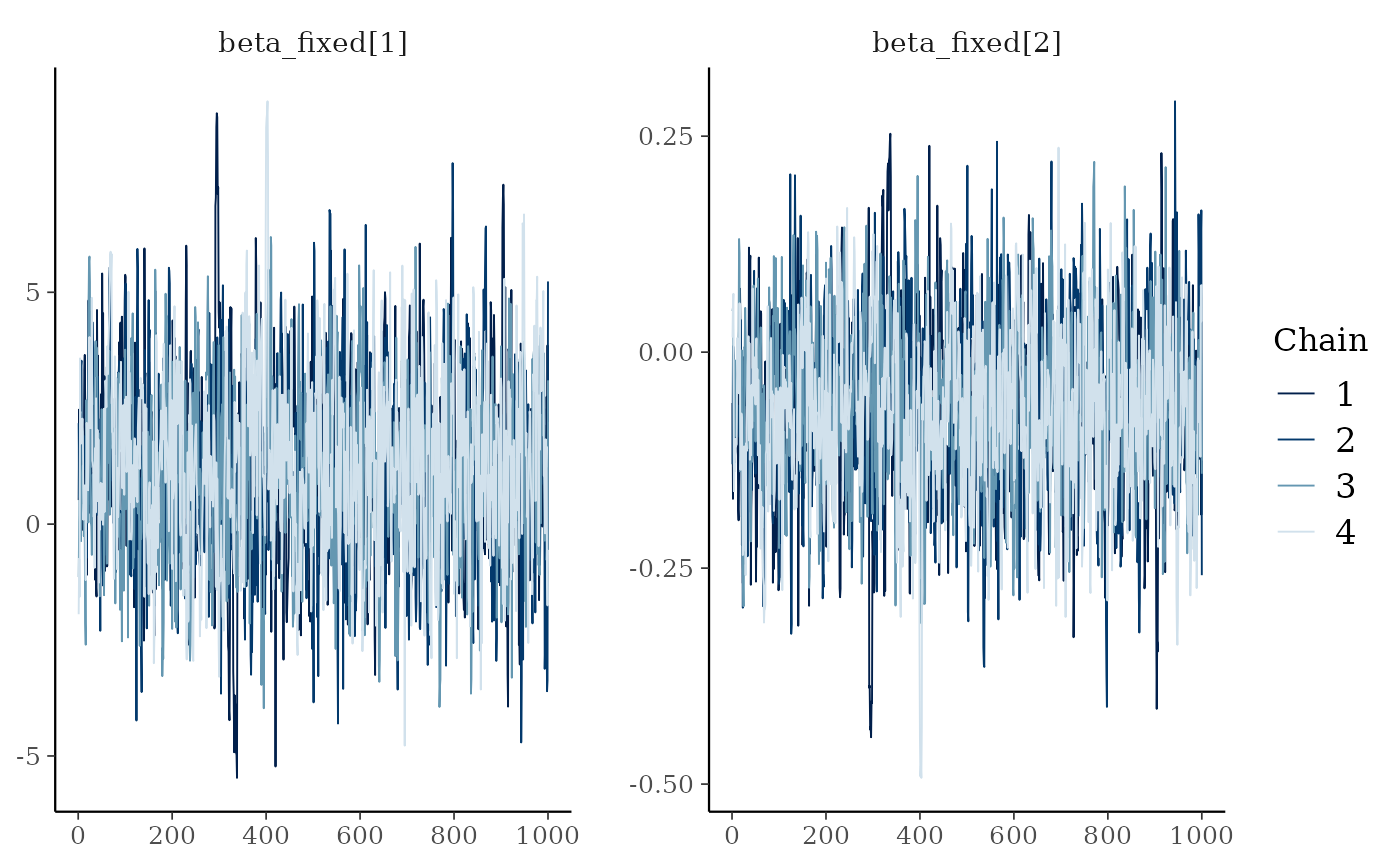
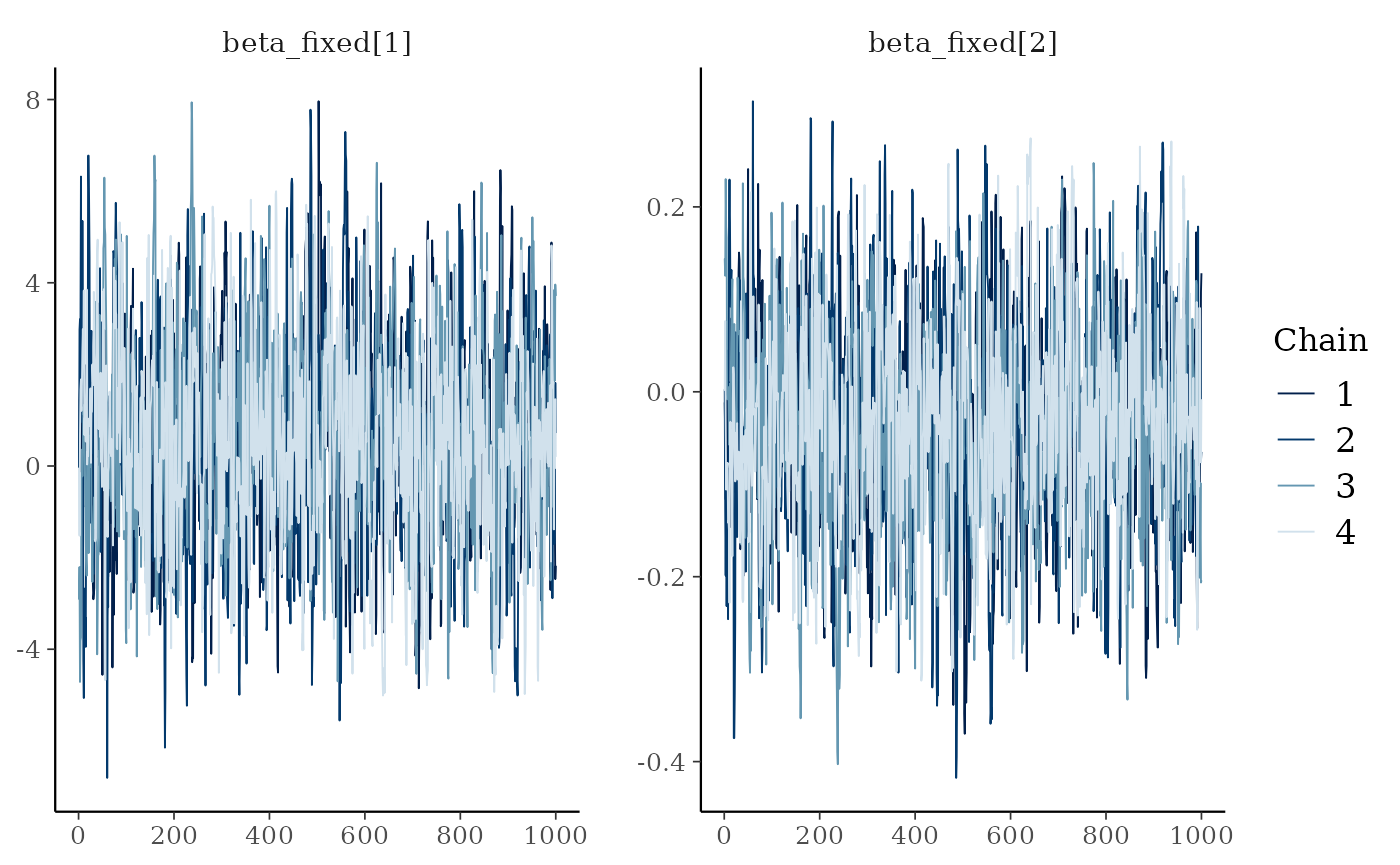
Built site for bisonR: 0.1.0@a3fa90d

diff --git a/articles/getting_started.html b/articles/getting_started.html
@@ -114,12 +114,12 @@
 <span class="va">df</span> <span class="op">&lt;-</span> <span class="va">sim_data</span><span class="op">$</span><span class="va">df_sim</span>
 <span class="fu"><a href="https://rdrr.io/r/utils/head.html" class="external-link">head</a></span><span class="op">(</span><span class="va">df</span><span class="op">)</span>
 <span class="co">#&gt;   event node_1_id node_2_id age_diff    age_1    age_2 location duration</span>
-<span class="co">#&gt; 1     1         1         2 6.293831 22.79589 16.50206        5        1</span>
-<span class="co">#&gt; 2     1         1         2 6.293831 22.79589 16.50206        2        1</span>
-<span class="co">#&gt; 3     1         1         2 6.293831 22.79589 16.50206        3        1</span>
-<span class="co">#&gt; 4     1         1         2 6.293831 22.79589 16.50206        1        1</span>
-<span class="co">#&gt; 5     1         1         2 6.293831 22.79589 16.50206        3        1</span>
-<span class="co">#&gt; 6     1         1         2 6.293831 22.79589 16.50206        2        1</span></code></pre></div>
+<span class="co">#&gt; 1     1         1         2  4.49879 19.47078 14.97199        5        1</span>
+<span class="co">#&gt; 2     0         1         2  4.49879 19.47078 14.97199        1        1</span>
+<span class="co">#&gt; 3     1         1         2  4.49879 19.47078 14.97199        5        1</span>
+<span class="co">#&gt; 4     1         1         2  4.49879 19.47078 14.97199        3        1</span>
+<span class="co">#&gt; 5     1         1         2  4.49879 19.47078 14.97199        3        1</span>
+<span class="co">#&gt; 6     1         1         2  4.49879 19.47078 14.97199        1        1</span></code></pre></div>
 </div>
 <div class="section level2">
 <h2 id="edge-models">Edge Models<a class="anchor" aria-label="anchor" href="#edge-models"></a>
@@ -188,14 +188,14 @@
 <span class="co">#&gt; </span>
 <span class="co">#&gt; Running MCMC with 4 parallel chains...</span>
 <span class="co">#&gt; </span>
-<span class="co">#&gt; Chain 3 finished in 2.1 seconds.</span>
-<span class="co">#&gt; Chain 1 finished in 2.2 seconds.</span>
-<span class="co">#&gt; Chain 2 finished in 2.3 seconds.</span>
-<span class="co">#&gt; Chain 4 finished in 2.2 seconds.</span>
+<span class="co">#&gt; Chain 2 finished in 2.2 seconds.</span>
+<span class="co">#&gt; Chain 3 finished in 2.2 seconds.</span>
+<span class="co">#&gt; Chain 1 finished in 2.4 seconds.</span>
+<span class="co">#&gt; Chain 4 finished in 2.4 seconds.</span>
 <span class="co">#&gt; </span>
 <span class="co">#&gt; All 4 chains finished successfully.</span>
-<span class="co">#&gt; Mean chain execution time: 2.2 seconds.</span>
-<span class="co">#&gt; Total execution time: 2.4 seconds.</span></code></pre></div>
+<span class="co">#&gt; Mean chain execution time: 2.3 seconds.</span>
+<span class="co">#&gt; Total execution time: 2.6 seconds.</span></code></pre></div>
 <p>Depending on your dataset this can take anywhere between a few tenths of a second and several hours. In particular if you have a large dataset and no observation-level predictors, it’s probably a good idea to use the aggregated version of the model where all observations per dyad are collapsed to a single row. This will speed up model fitting considerably.</p>
 <p>Once the model has fitted, we need to check that the MCMC algorithm has behaved correctly. Usually if there’s a major problem, the <code><a href="../reference/edge_model.html">edge_model()</a></code> function itself will have triggered warning messages above. But even if everything is silent, it’s still worth checking the traceplots to check the MCMC chains have converged. The chains should be well-mixed and look something like a fuzzy caterpillar. We can check for this using the <code><a href="../reference/plot_trace.html">plot_trace()</a></code> function:</p>
 <div class="sourceCode" id="cb7"><pre class="downlit sourceCode r">
@@ -216,51 +216,51 @@
 <span class="co">#&gt; Directed: FALSE</span>
 <span class="co">#&gt; === Edge list summary ===</span>
 <span class="co">#&gt;          median    5%   95%</span>
-<span class="co">#&gt; 1 &lt;-&gt; 2   0.916 0.751 0.986</span>
-<span class="co">#&gt; 1 &lt;-&gt; 3   0.742 0.355 0.956</span>
-<span class="co">#&gt; 2 &lt;-&gt; 3   0.114 0.005 0.576</span>
-<span class="co">#&gt; 1 &lt;-&gt; 4   0.971 0.847 0.998</span>
-<span class="co">#&gt; 2 &lt;-&gt; 4   0.907 0.716 0.983</span>
-<span class="co">#&gt; 3 &lt;-&gt; 4   0.977 0.880 0.998</span>
-<span class="co">#&gt; 1 &lt;-&gt; 5   0.942 0.683 0.996</span>
-<span class="co">#&gt; 2 &lt;-&gt; 5   0.029 0.002 0.148</span>
-<span class="co">#&gt; 3 &lt;-&gt; 5   0.818 0.208 0.992</span>
-<span class="co">#&gt; 4 &lt;-&gt; 5   0.107 0.005 0.582</span>
-<span class="co">#&gt; 1 &lt;-&gt; 6   0.961 0.798 0.997</span>
-<span class="co">#&gt; 2 &lt;-&gt; 6   0.037 0.002 0.204</span>
-<span class="co">#&gt; 3 &lt;-&gt; 6   0.457 0.227 0.695</span>
-<span class="co">#&gt; 4 &lt;-&gt; 6   0.168 0.007 0.780</span>
-<span class="co">#&gt; 5 &lt;-&gt; 6   0.809 0.624 0.929</span>
-<span class="co">#&gt; 1 &lt;-&gt; 7   0.843 0.560 0.974</span>
-<span class="co">#&gt; 2 &lt;-&gt; 7   0.027 0.002 0.141</span>
-<span class="co">#&gt; 3 &lt;-&gt; 7   0.259 0.044 0.649</span>
-<span class="co">#&gt; 4 &lt;-&gt; 7   0.028 0.003 0.137</span>
-<span class="co">#&gt; 5 &lt;-&gt; 7   0.791 0.444 0.966</span>
-<span class="co">#&gt; 6 &lt;-&gt; 7   0.785 0.441 0.966</span>
-<span class="co">#&gt; 1 &lt;-&gt; 8   0.973 0.856 0.998</span>
-<span class="co">#&gt; 2 &lt;-&gt; 8   0.368 0.207 0.558</span>
-<span class="co">#&gt; 3 &lt;-&gt; 8   0.975 0.872 0.998</span>
-<span class="co">#&gt; 4 &lt;-&gt; 8   0.067 0.013 0.193</span>
-<span class="co">#&gt; 5 &lt;-&gt; 8   0.887 0.410 0.994</span>
-<span class="co">#&gt; 6 &lt;-&gt; 8   0.893 0.430 0.994</span>
-<span class="co">#&gt; 7 &lt;-&gt; 8   0.948 0.725 0.997</span>
-<span class="co">#&gt; 1 &lt;-&gt; 9   0.955 0.765 0.997</span>
-<span class="co">#&gt; 2 &lt;-&gt; 9   0.923 0.768 0.986</span>
-<span class="co">#&gt; 3 &lt;-&gt; 9   0.847 0.563 0.973</span>
-<span class="co">#&gt; 4 &lt;-&gt; 9   0.844 0.573 0.972</span>
-<span class="co">#&gt; 5 &lt;-&gt; 9   0.974 0.868 0.998</span>
-<span class="co">#&gt; 6 &lt;-&gt; 9   0.892 0.413 0.994</span>
-<span class="co">#&gt; 7 &lt;-&gt; 9   0.916 0.548 0.995</span>
-<span class="co">#&gt; 8 &lt;-&gt; 9   0.842 0.642 0.955</span>
-<span class="co">#&gt; 1 &lt;-&gt; 10  0.402 0.115 0.740</span>
-<span class="co">#&gt; 2 &lt;-&gt; 10  0.030 0.002 0.145</span>
-<span class="co">#&gt; 3 &lt;-&gt; 10  0.033 0.002 0.191</span>
-<span class="co">#&gt; 4 &lt;-&gt; 10  0.032 0.002 0.164</span>
-<span class="co">#&gt; 5 &lt;-&gt; 10  0.238 0.103 0.427</span>
-<span class="co">#&gt; 6 &lt;-&gt; 10  0.036 0.002 0.202</span>
-<span class="co">#&gt; 7 &lt;-&gt; 10  0.021 0.002 0.109</span>
-<span class="co">#&gt; 8 &lt;-&gt; 10  0.025 0.002 0.133</span>
-<span class="co">#&gt; 9 &lt;-&gt; 10  0.029 0.002 0.137</span></code></pre></div>
+<span class="co">#&gt; 1 &lt;-&gt; 2   0.853 0.672 0.957</span>
+<span class="co">#&gt; 1 &lt;-&gt; 3   0.045 0.003 0.235</span>
+<span class="co">#&gt; 2 &lt;-&gt; 3   0.040 0.003 0.211</span>
+<span class="co">#&gt; 1 &lt;-&gt; 4   0.388 0.224 0.582</span>
+<span class="co">#&gt; 2 &lt;-&gt; 4   0.021 0.002 0.102</span>
+<span class="co">#&gt; 3 &lt;-&gt; 4   0.224 0.063 0.493</span>
+<span class="co">#&gt; 1 &lt;-&gt; 5   0.498 0.269 0.727</span>
+<span class="co">#&gt; 2 &lt;-&gt; 5   0.509 0.108 0.904</span>
+<span class="co">#&gt; 3 &lt;-&gt; 5   0.749 0.555 0.888</span>
+<span class="co">#&gt; 4 &lt;-&gt; 5   0.924 0.769 0.985</span>
+<span class="co">#&gt; 1 &lt;-&gt; 6   0.095 0.017 0.271</span>
+<span class="co">#&gt; 2 &lt;-&gt; 6   0.067 0.004 0.378</span>
+<span class="co">#&gt; 3 &lt;-&gt; 6   0.335 0.109 0.656</span>
+<span class="co">#&gt; 4 &lt;-&gt; 6   0.340 0.103 0.649</span>
+<span class="co">#&gt; 5 &lt;-&gt; 6   0.171 0.063 0.338</span>
+<span class="co">#&gt; 1 &lt;-&gt; 7   0.824 0.503 0.970</span>
+<span class="co">#&gt; 2 &lt;-&gt; 7   0.070 0.004 0.360</span>
+<span class="co">#&gt; 3 &lt;-&gt; 7   0.963 0.809 0.998</span>
+<span class="co">#&gt; 4 &lt;-&gt; 7   0.979 0.894 0.998</span>
+<span class="co">#&gt; 5 &lt;-&gt; 7   0.747 0.545 0.894</span>
+<span class="co">#&gt; 6 &lt;-&gt; 7   0.967 0.830 0.998</span>
+<span class="co">#&gt; 1 &lt;-&gt; 8   0.150 0.048 0.333</span>
+<span class="co">#&gt; 2 &lt;-&gt; 8   0.089 0.015 0.262</span>
+<span class="co">#&gt; 3 &lt;-&gt; 8   0.249 0.119 0.425</span>
+<span class="co">#&gt; 4 &lt;-&gt; 8   0.922 0.767 0.986</span>
+<span class="co">#&gt; 5 &lt;-&gt; 8   0.625 0.420 0.800</span>
+<span class="co">#&gt; 6 &lt;-&gt; 8   0.434 0.247 0.636</span>
+<span class="co">#&gt; 7 &lt;-&gt; 8   0.221 0.069 0.489</span>
+<span class="co">#&gt; 1 &lt;-&gt; 9   0.976 0.871 0.998</span>
+<span class="co">#&gt; 2 &lt;-&gt; 9   0.101 0.018 0.299</span>
+<span class="co">#&gt; 3 &lt;-&gt; 9   0.785 0.618 0.910</span>
+<span class="co">#&gt; 4 &lt;-&gt; 9   0.977 0.879 0.998</span>
+<span class="co">#&gt; 5 &lt;-&gt; 9   0.662 0.342 0.900</span>
+<span class="co">#&gt; 6 &lt;-&gt; 9   0.963 0.804 0.997</span>
+<span class="co">#&gt; 7 &lt;-&gt; 9   0.600 0.265 0.870</span>
+<span class="co">#&gt; 8 &lt;-&gt; 9   0.975 0.871 0.998</span>
+<span class="co">#&gt; 1 &lt;-&gt; 10  0.070 0.013 0.201</span>
+<span class="co">#&gt; 2 &lt;-&gt; 10  0.028 0.002 0.147</span>
+<span class="co">#&gt; 3 &lt;-&gt; 10  0.028 0.002 0.138</span>
+<span class="co">#&gt; 4 &lt;-&gt; 10  0.550 0.370 0.728</span>
+<span class="co">#&gt; 5 &lt;-&gt; 10  0.165 0.007 0.775</span>
+<span class="co">#&gt; 6 &lt;-&gt; 10  0.140 0.026 0.390</span>
+<span class="co">#&gt; 7 &lt;-&gt; 10  0.022 0.002 0.114</span>
+<span class="co">#&gt; 8 &lt;-&gt; 10  0.342 0.062 0.772</span>
+<span class="co">#&gt; 9 &lt;-&gt; 10  0.081 0.005 0.444</span></code></pre></div>
 <p>It can be hard to get an intuitive idea for what’s going on looking only at a summary table, so this is where it can be useful to visualise the network too. The <code><a href="../reference/plot_network.html">plot_network()</a></code> function does this for BISoN edge weight models, where uncertainty is shown on edge weights. Uncertainty is visualised by showing the lower and upper bounds as overlapping edges in the network.</p>
 <div class="sourceCode" id="cb10"><pre class="downlit sourceCode r">
 <code class="sourceCode R"><span class="fu"><a href="../reference/plot_network.html">plot_network</a></span><span class="op">(</span><span class="va">fit_edge</span>, lwd<span class="op">=</span><span class="fl">5</span><span class="op">)</span></code></pre></div>
@@ -301,34 +301,34 @@
 <span class="co">#&gt; Chain 2 Iteration:    1 / 2000 [  0%]  (Warmup) </span>
 <span class="co">#&gt; Chain 3 Iteration:    1 / 2000 [  0%]  (Warmup) </span>
 <span class="co">#&gt; Chain 4 Iteration:    1 / 2000 [  0%]  (Warmup) </span>
-<span class="co">#&gt; Chain 4 Iteration:  500 / 2000 [ 25%]  (Warmup) </span>
 <span class="co">#&gt; Chain 1 Iteration:  500 / 2000 [ 25%]  (Warmup) </span>
-<span class="co">#&gt; Chain 2 Iteration:  500 / 2000 [ 25%]  (Warmup) </span>
 <span class="co">#&gt; Chain 3 Iteration:  500 / 2000 [ 25%]  (Warmup) </span>
-<span class="co">#&gt; Chain 4 Iteration: 1000 / 2000 [ 50%]  (Warmup) </span>
-<span class="co">#&gt; Chain 4 Iteration: 1001 / 2000 [ 50%]  (Sampling) </span>
+<span class="co">#&gt; Chain 4 Iteration:  500 / 2000 [ 25%]  (Warmup) </span>
+<span class="co">#&gt; Chain 2 Iteration:  500 / 2000 [ 25%]  (Warmup) </span>
 <span class="co">#&gt; Chain 1 Iteration: 1000 / 2000 [ 50%]  (Warmup) </span>
 <span class="co">#&gt; Chain 1 Iteration: 1001 / 2000 [ 50%]  (Sampling) </span>
-<span class="co">#&gt; Chain 2 Iteration: 1000 / 2000 [ 50%]  (Warmup) </span>
-<span class="co">#&gt; Chain 2 Iteration: 1001 / 2000 [ 50%]  (Sampling) </span>
 <span class="co">#&gt; Chain 3 Iteration: 1000 / 2000 [ 50%]  (Warmup) </span>
 <span class="co">#&gt; Chain 3 Iteration: 1001 / 2000 [ 50%]  (Sampling) </span>
-<span class="co">#&gt; Chain 4 Iteration: 1500 / 2000 [ 75%]  (Sampling) </span>
+<span class="co">#&gt; Chain 4 Iteration: 1000 / 2000 [ 50%]  (Warmup) </span>
+<span class="co">#&gt; Chain 4 Iteration: 1001 / 2000 [ 50%]  (Sampling) </span>
+<span class="co">#&gt; Chain 2 Iteration: 1000 / 2000 [ 50%]  (Warmup) </span>
+<span class="co">#&gt; Chain 2 Iteration: 1001 / 2000 [ 50%]  (Sampling) </span>
 <span class="co">#&gt; Chain 1 Iteration: 1500 / 2000 [ 75%]  (Sampling) </span>
 <span class="co">#&gt; Chain 3 Iteration: 1500 / 2000 [ 75%]  (Sampling) </span>
+<span class="co">#&gt; Chain 4 Iteration: 1500 / 2000 [ 75%]  (Sampling) </span>
 <span class="co">#&gt; Chain 2 Iteration: 1500 / 2000 [ 75%]  (Sampling) </span>
-<span class="co">#&gt; Chain 4 Iteration: 2000 / 2000 [100%]  (Sampling) </span>
-<span class="co">#&gt; Chain 4 finished in 3.4 seconds.</span>
 <span class="co">#&gt; Chain 1 Iteration: 2000 / 2000 [100%]  (Sampling) </span>
 <span class="co">#&gt; Chain 3 Iteration: 2000 / 2000 [100%]  (Sampling) </span>
-<span class="co">#&gt; Chain 1 finished in 3.4 seconds.</span>
-<span class="co">#&gt; Chain 3 finished in 3.4 seconds.</span>
+<span class="co">#&gt; Chain 1 finished in 2.9 seconds.</span>
+<span class="co">#&gt; Chain 3 finished in 2.9 seconds.</span>
+<span class="co">#&gt; Chain 4 Iteration: 2000 / 2000 [100%]  (Sampling) </span>
+<span class="co">#&gt; Chain 4 finished in 2.9 seconds.</span>
 <span class="co">#&gt; Chain 2 Iteration: 2000 / 2000 [100%]  (Sampling) </span>
-<span class="co">#&gt; Chain 2 finished in 3.5 seconds.</span>
+<span class="co">#&gt; Chain 2 finished in 3.1 seconds.</span>
 <span class="co">#&gt; </span>
 <span class="co">#&gt; All 4 chains finished successfully.</span>
-<span class="co">#&gt; Mean chain execution time: 3.4 seconds.</span>
-<span class="co">#&gt; Total execution time: 3.6 seconds.</span></code></pre></div>
+<span class="co">#&gt; Mean chain execution time: 2.9 seconds.</span>
+<span class="co">#&gt; Total execution time: 3.2 seconds.</span></code></pre></div>
 <p>Like last time we want to check that our model has fit properly and makes good predictions. This can be done in exactly the same way as last time:</p>
 <div class="sourceCode" id="cb13"><pre class="downlit sourceCode r">
 <code class="sourceCode R"><span class="fu"><a href="../reference/plot_trace.html">plot_trace</a></span><span class="op">(</span><span class="va">fit_dyadic</span><span class="op">)</span></code></pre></div>
@@ -344,8 +344,8 @@
 <span class="co">#&gt; Number of dyads: 45</span>
 <span class="co">#&gt; === Coefficient summary ===                </span>
 <span class="co">#&gt; variable           50%    5%   95%</span>
-<span class="co">#&gt;   intercept      0.343 0.057 0.652</span>
-<span class="co">#&gt;   fixed_age_diff 0.477 0.413 0.543</span></code></pre></div>
+<span class="co">#&gt;   intercept      0.313 0.029 0.589</span>
+<span class="co">#&gt;   fixed_age_diff 0.566 0.472 0.658</span></code></pre></div>
 <p>Now we’ve seen how to fit a dyadic regression, the next common type of analysis is nodal regression.</p>
 </div>
 <div class="section level2">
@@ -361,16 +361,16 @@
   <span class="fu"><a href="https://dplyr.tidyverse.org/reference/distinct.html" class="external-link">distinct</a></span><span class="op">(</span><span class="va">node_id</span>, <span class="va">age</span><span class="op">)</span>
 <span class="va">df_nodal</span>
 <span class="co">#&gt;    node_id      age</span>
-<span class="co">#&gt; 1        1 22.79589</span>
-<span class="co">#&gt; 2        2 16.50206</span>
-<span class="co">#&gt; 3        3 19.58159</span>
-<span class="co">#&gt; 4        4 14.11134</span>
-<span class="co">#&gt; 5        5 22.82614</span>
-<span class="co">#&gt; 6        6 20.93434</span>
-<span class="co">#&gt; 7        7 20.55022</span>
-<span class="co">#&gt; 8        8 17.10926</span>
-<span class="co">#&gt; 9        9 14.76938</span>
-<span class="co">#&gt; 10      10 25.53369</span></code></pre></div>
+<span class="co">#&gt; 1        1 19.47078</span>
+<span class="co">#&gt; 2        2 14.97199</span>
+<span class="co">#&gt; 3        3 18.93309</span>
+<span class="co">#&gt; 4        4 22.11760</span>
+<span class="co">#&gt; 5        5 19.08960</span>
+<span class="co">#&gt; 6        6 21.09769</span>
+<span class="co">#&gt; 7        7 17.79310</span>
+<span class="co">#&gt; 8        8 21.08259</span>
+<span class="co">#&gt; 9        9 16.68161</span>
+<span class="co">#&gt; 10      10 23.68547</span></code></pre></div>
 <p>Priors can be set in the exact same way as for the <code><a href="../reference/dyadic_regression.html">dyadic_regression()</a></code> function:</p>
 <div class="sourceCode" id="cb17"><pre class="downlit sourceCode r">
 <code class="sourceCode R"><span class="va">priors</span> <span class="op">&lt;-</span> <span class="fu"><a href="../reference/get_default_priors.html">get_default_priors</a></span><span class="op">(</span><span class="st">"nodal_regression"</span><span class="op">)</span>
@@ -393,15 +393,20 @@
 <span class="co">#&gt; Running MCMC with 4 parallel chains...</span>
 <span class="co">#&gt; </span>
 <span class="co">#&gt; Chain 1 Iteration:    1 / 2000 [  0%]  (Warmup) </span>
-<span class="co">#&gt; Chain 2 Iteration:    1 / 2000 [  0%]  (Warmup) </span>
+<span class="co">#&gt; Chain 2 Iteration:    1 / 2000 [  0%]  (Warmup)</span>
+<span class="co">#&gt; Chain 2 Informational Message: The current Metropolis proposal is about to be rejected because of the following issue:</span>
+<span class="co">#&gt; Chain 2 Exception: multi_normal_lpdf: LDLT_Factor of covariance parameter is not positive definite.  last conditional variance is -nan. (in '/tmp/Rtmp6eM4wL/model-38993f212218.stan', line 34, column 2 to column 94)</span>
+<span class="co">#&gt; Chain 2 If this warning occurs sporadically, such as for highly constrained variable types like covariance matrices, then the sampler is fine,</span>
+<span class="co">#&gt; Chain 2 but if this warning occurs often then your model may be either severely ill-conditioned or misspecified.</span>
+<span class="co">#&gt; Chain 2</span>
 <span class="co">#&gt; Chain 3 Iteration:    1 / 2000 [  0%]  (Warmup) </span>
 <span class="co">#&gt; Chain 4 Iteration:    1 / 2000 [  0%]  (Warmup) </span>
 <span class="co">#&gt; Chain 1 Iteration:  500 / 2000 [ 25%]  (Warmup) </span>
+<span class="co">#&gt; Chain 2 Iteration:  500 / 2000 [ 25%]  (Warmup) </span>
+<span class="co">#&gt; Chain 4 Iteration:  500 / 2000 [ 25%]  (Warmup) </span>
 <span class="co">#&gt; Chain 1 Iteration: 1000 / 2000 [ 50%]  (Warmup) </span>
 <span class="co">#&gt; Chain 1 Iteration: 1001 / 2000 [ 50%]  (Sampling) </span>
-<span class="co">#&gt; Chain 2 Iteration:  500 / 2000 [ 25%]  (Warmup) </span>
 <span class="co">#&gt; Chain 3 Iteration:  500 / 2000 [ 25%]  (Warmup) </span>
-<span class="co">#&gt; Chain 4 Iteration:  500 / 2000 [ 25%]  (Warmup) </span>
 <span class="co">#&gt; Chain 2 Iteration: 1000 / 2000 [ 50%]  (Warmup) </span>
 <span class="co">#&gt; Chain 2 Iteration: 1001 / 2000 [ 50%]  (Sampling) </span>
 <span class="co">#&gt; Chain 3 Iteration: 1000 / 2000 [ 50%]  (Warmup) </span>
@@ -409,21 +414,21 @@
 <span class="co">#&gt; Chain 4 Iteration: 1000 / 2000 [ 50%]  (Warmup) </span>
 <span class="co">#&gt; Chain 4 Iteration: 1001 / 2000 [ 50%]  (Sampling) </span>
 <span class="co">#&gt; Chain 1 Iteration: 1500 / 2000 [ 75%]  (Sampling) </span>
-<span class="co">#&gt; Chain 4 Iteration: 1500 / 2000 [ 75%]  (Sampling) </span>
-<span class="co">#&gt; Chain 1 Iteration: 2000 / 2000 [100%]  (Sampling) </span>
 <span class="co">#&gt; Chain 2 Iteration: 1500 / 2000 [ 75%]  (Sampling) </span>
 <span class="co">#&gt; Chain 3 Iteration: 1500 / 2000 [ 75%]  (Sampling) </span>
+<span class="co">#&gt; Chain 4 Iteration: 1500 / 2000 [ 75%]  (Sampling) </span>
+<span class="co">#&gt; Chain 1 Iteration: 2000 / 2000 [100%]  (Sampling) </span>
 <span class="co">#&gt; Chain 2 Iteration: 2000 / 2000 [100%]  (Sampling) </span>
-<span class="co">#&gt; Chain 3 Iteration: 2000 / 2000 [100%]  (Sampling) </span>
 <span class="co">#&gt; Chain 4 Iteration: 2000 / 2000 [100%]  (Sampling) </span>
-<span class="co">#&gt; Chain 1 finished in 0.6 seconds.</span>
-<span class="co">#&gt; Chain 2 finished in 0.7 seconds.</span>
-<span class="co">#&gt; Chain 3 finished in 0.6 seconds.</span>
-<span class="co">#&gt; Chain 4 finished in 0.6 seconds.</span>
+<span class="co">#&gt; Chain 1 finished in 0.8 seconds.</span>
+<span class="co">#&gt; Chain 2 finished in 0.8 seconds.</span>
+<span class="co">#&gt; Chain 4 finished in 0.7 seconds.</span>
+<span class="co">#&gt; Chain 3 Iteration: 2000 / 2000 [100%]  (Sampling) </span>
+<span class="co">#&gt; Chain 3 finished in 0.8 seconds.</span>
 <span class="co">#&gt; </span>
 <span class="co">#&gt; All 4 chains finished successfully.</span>
-<span class="co">#&gt; Mean chain execution time: 0.6 seconds.</span>
-<span class="co">#&gt; Total execution time: 0.8 seconds.</span></code></pre></div>
+<span class="co">#&gt; Mean chain execution time: 0.8 seconds.</span>
+<span class="co">#&gt; Total execution time: 0.9 seconds.</span></code></pre></div>
 <p>Once the model has been fitted, we need to employ the same diagnostic checks as last time to ensure the model is reliable. This may seem a little tedious, and it won’t always go smoothly, but it’s a vital part of model fitting that is essential for reliable inferences, even in frequentist statistics.</p>
 <div class="sourceCode" id="cb19"><pre class="downlit sourceCode r">
 <code class="sourceCode R"><span class="fu"><a href="../reference/plot_trace.html">plot_trace</a></span><span class="op">(</span><span class="va">fit_nodal</span><span class="op">)</span></code></pre></div>
@@ -439,8 +444,8 @@
 <span class="co">#&gt; Number of nodes: 10</span>
 <span class="co">#&gt; === Coefficient summary ===           </span>
 <span class="co">#&gt; variable       50%     5%   95%</span>
-<span class="co">#&gt;   intercept  1.145 -1.902 4.356</span>
-<span class="co">#&gt;   fixed_age -0.061 -0.227 0.095</span></code></pre></div>
+<span class="co">#&gt;   intercept  0.626 -2.946 4.341</span>
+<span class="co">#&gt;   fixed_age -0.032 -0.225 0.149</span></code></pre></div>
 </div>
 <div class="section level2">
 <h2 id="conclusion">Conclusion<a class="anchor" aria-label="anchor" href="#conclusion"></a>
